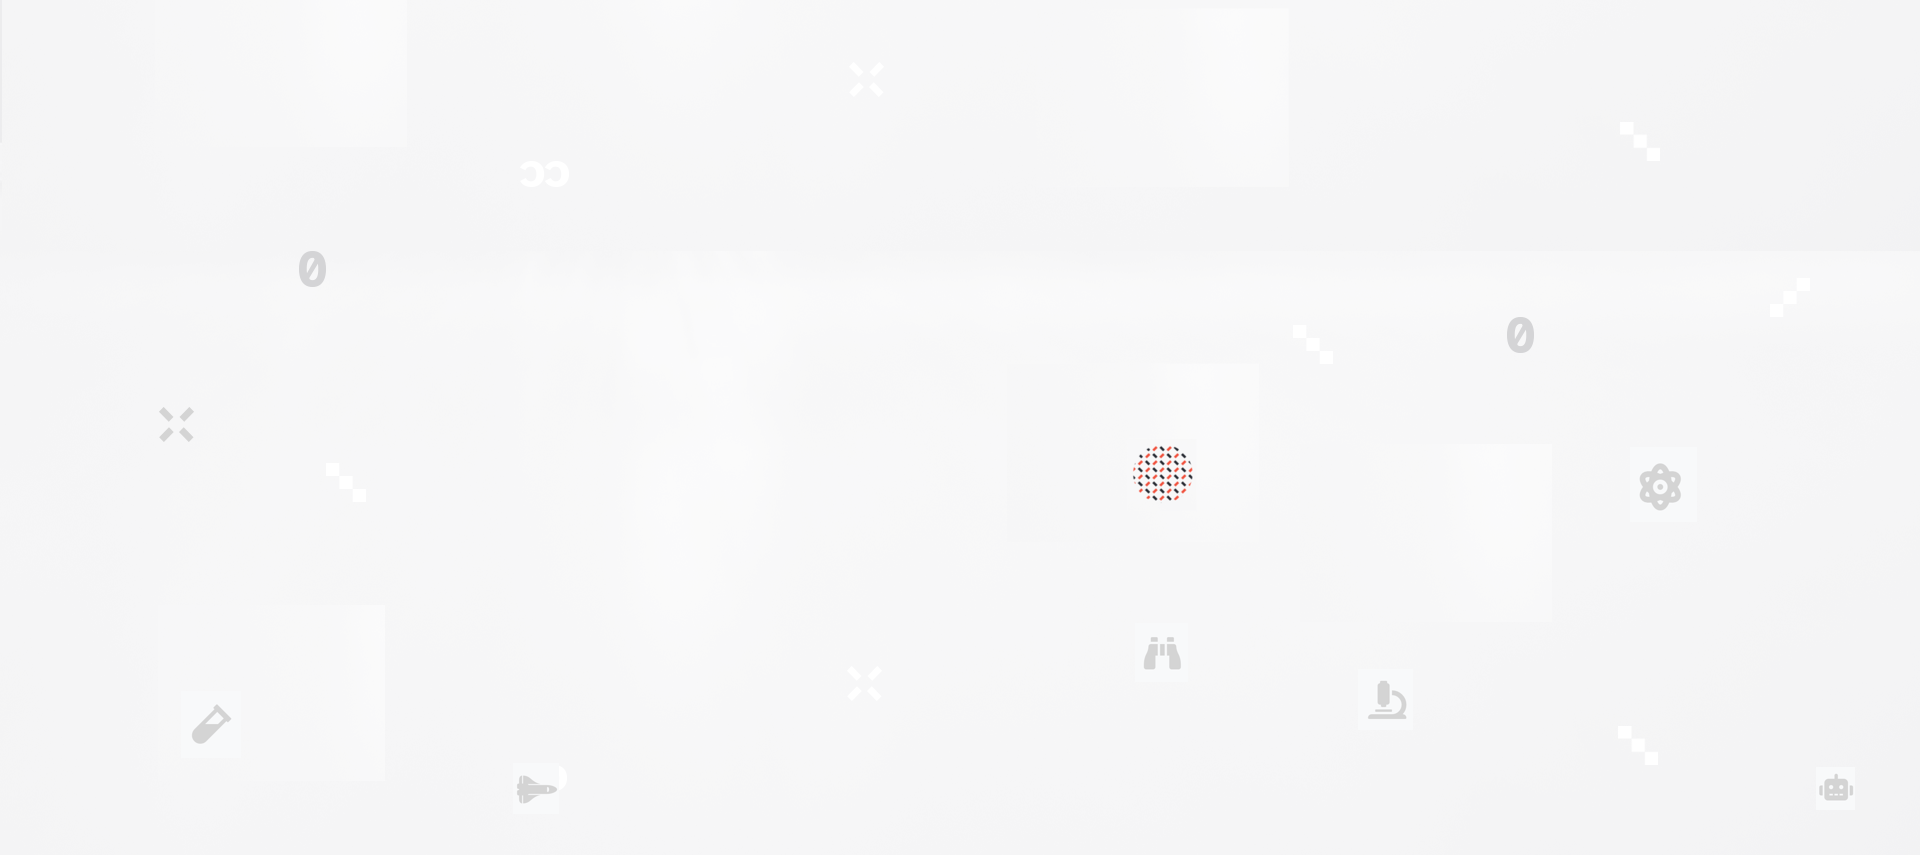
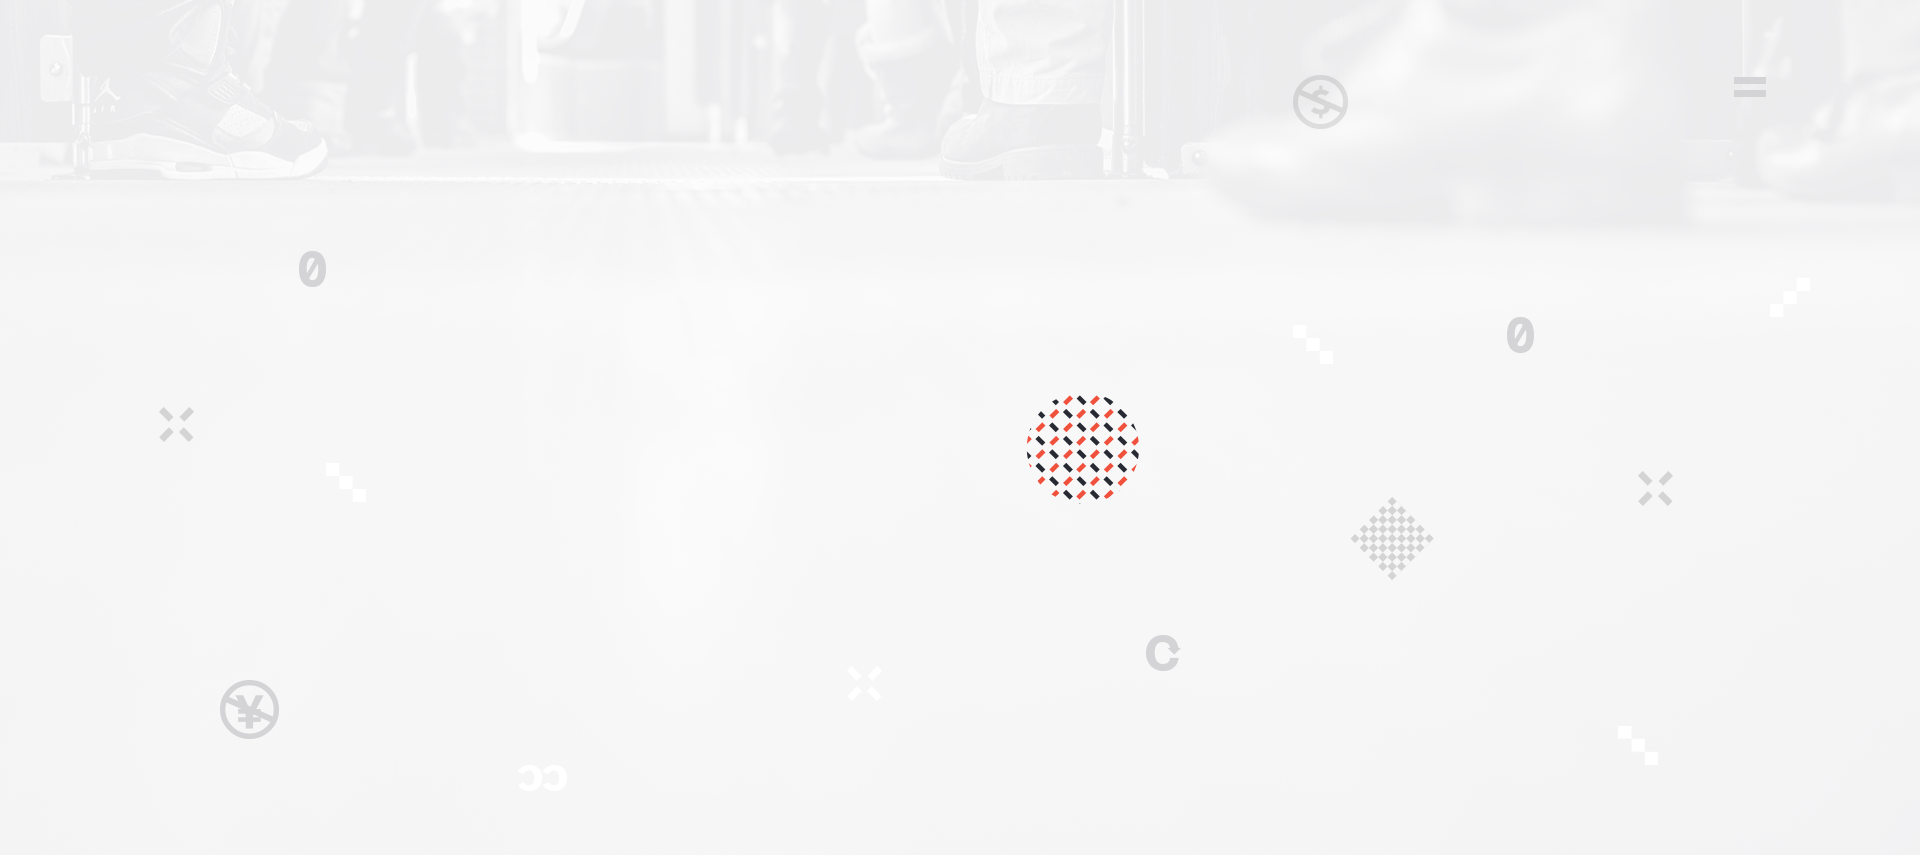
Add dynamic cards

diff --git a/script.js b/script.js
@@ -1,21 +1,79 @@
-const mobileNav = document.querySelector('.mobile-nav');
-const btn = document.querySelector('.btn');
-const link1 = document.querySelector('.link1');
-const link2 = document.querySelector('.link2');
-const link3 = document.querySelector('.link3');
+/* dynamic cards */
+const featuredSpeakersArr = [
+  {
+    id: 1,
+    title: 'Dr. John C. Mather',
+    role: 'Nobel Prize Physics 2016',
+    img: './imgs/speaker1.png',
+    imgAlt: 'Dr. John C. Mather',
+    description:
+      'Lorem ipsum dolor sit amet, consectetur adipiscing elit. Doneceuismod, nisl eget consectetur sagittis.',
+  },
+  {
+    id: 2,
+    title: 'David Hertz',
+    role: 'President, SkySource',
+    img: './imgs/speaker2.png',
+    imgAlt: 'David Hertz',
+    description:
+      'Lorem ipsum dolor sit amet, consectetur adipiscing elit. Doneceuismod, nisl eget consectetur sagittis.',
+  },
+  {
+    id: 3,
+    title: 'Dr. Kat Bruce',
+    role: 'Founder, NatureMetrics',
+    img: './imgs/speaker3.png',
+    imgAlt: 'Dr. Kat Bruce',
+    description:
+      'Lorem ipsum dolor sit amet, consectetur adipiscing elit. Doneceuismod, nisl eget consectetur sagittis.',
+  },
+  {
+    id: 4,
+    title: 'Cristina Mata Yandiola',
+    role: 'Head of Powerledger',
+    img: './imgs/speaker4.png',
+    imgAlt: 'Cristina Mata Yandiola',
+    description:
+      'Lorem ipsum dolor sit amet, consectetur adipiscing elit. Doneceuismod, nisl eget consectetur sagittis.',
+  },
+  {
+    id: 5,
+    title: 'Jeremy Brien',
+    role: 'CEO, PsiQuantum',
+    img: './imgs/speaker5.png',
+    imgAlt: 'Jeremy Brien',
+    description:
+      'Lorem ipsum dolor sit amet, consectetur adipiscing elit. Doneceuismod, nisl eget consectetur sagittis.',
+  },
+  {
+    id: 6,
+    title: 'Kathleen Breitman',
+    role: 'Co-Founder, Tezos',
+    img: './imgs/speaker6.png',
+    imgAlt: 'Kathleen Breitman',
+    description:
+      'Lorem ipsum dolor sit amet, consectetur adipiscing elit. Doneceuismod, nisl eget consectetur sagittis.',
+  },
+];
 
-link1.addEventListener('click', () => {
-  mobileNav.classList.remove('active');
-});
+const featuredSpeakers = document.querySelector('.featured-content');
 
-link2.addEventListener('click', () => {
-  mobileNav.classList.remove('active');
-});
+for (let i = 0; i < featuredSpeakersArr.length; i += 1) {
+  const speaker = featuredSpeakersArr[i];
 
-link3.addEventListener('click', () => {
-  mobileNav.classList.remove('active');
-});
-
-btn.addEventListener('click', () => {
-  mobileNav.classList.toggle('active');
-});
+  const feature = document.createElement('div');
+  feature.classList.add('featured-speaker');
+  feature.innerHTML = `<div class="featured-speaker__item">
+  <img class="featured-speaker__img" src="${speaker.img}" alt="${speaker.imgAlt}/>
+  <div class="featured-speaker__info">
+    <h4 class="fs-title">${speaker.title}</h4>
+    <span class="fs-role">Nobel Prize Physics 2016</span>
+    <p class="fs-description">
+      Lorem ipsum dolor sit amet, consectetur adipiscing elit. Donec
+      euismod, nisl eget consectetur sagittis.
+    </p>
+  </div>
+</div>
+  `;
+  featuredSpeakers.appendChild(feature);
+}

diff --git a/style.css b/style.css
@@ -12,12 +12,17 @@
   --color-1: #272a31;
   --color-2: #ec5242;
   --color-3: #d3d3d3;
+  --color-4: #575757;
   --white: #fff;
   --black: #000;
 }
 
 /* mobile styles */
 .secondary-nav {
+  display: none;
+}
+
+.primary-nav__btn {
   display: none;
 }
 
@@ -43,7 +48,6 @@ header {
   display: flex;
   justify-content: space-between;
   padding: 5%;
-  box-shadow: 0 4px 4px -4px rgba(0, 0, 0, 30%);
 }
 
 .primary-nav__items {
@@ -91,13 +95,19 @@ header {
 .date {
   font-family: "COCOGOOSE", sans-serif;
   font-size: 1.5rem;
-  color: gray;
+  color: var(--color-4);
   margin-bottom: 0;
 }
 
 .place {
-  color: gray;
+  color: var(--color-4);
   font-size: 1rem;
+}
+
+.line {
+  width: 60px;
+  border-bottom: 1px solid var(--color-2);
+  margin: 0 auto 40px;
 }
 
 .main-program {
@@ -114,12 +124,6 @@ header {
   color: var(--white);
   margin: 0;
   font-size: 15px;
-}
-
-.main-program__line {
-  width: 60px;
-  border-bottom: 1px solid var(--color-2);
-  margin: 0 auto 40px;
 }
 
 .main-program__cards {
@@ -165,6 +169,37 @@ header {
   text-decoration: none;
 }
 
+.featured-content {
+  display: flex;
+  flex-direction: column;
+  align-items: center;
+  padding: 2rem 0.5rem 0 0.5rem;
+}
+
+.featured-speaker {
+  padding-bottom: 1rem;
+}
+
+.featured-speaker__img {
+  float: left;
+  max-height: auto;
+  max-width: 10rem;
+}
+
+.fs-title {
+  font-weight: bold;
+}
+
+.fs-role {
+  color: var(--color-2);
+  font-size: 14px;
+  font-weight: 700;
+  line-height: 1;
+  font-style: italic;
+  position: relative;
+  padding-bottom: 1.2rem;
+}
+
 /* desktop styles */
 @media screen and (min-width: 768px) {
   .logo {
@@ -172,8 +207,8 @@ header {
     max-width: 10rem;
   }
 
-  .icon {
-    color: var(--white);
+  .menu {
+    display: none;
   }
 
   .secondary-nav {
@@ -200,17 +235,51 @@ header {
     flex-direction: row;
     align-items: center;
     justify-content: space-between;
+    height: 5rem;
   }
 
   .primary-nav__items {
     display: flex;
     list-style: none;
     gap: 2rem;
-    margin-right: 10%;
   }
 
   .primary-nav__item a {
     text-decoration: none;
     color: var(--black);
+  }
+
+  .primary-nav__btn {
+    display: flex;
+    border: 5px solid var(--color-2);
+    color: var(--color-2);
+    padding: 10px;
+    margin-right: 20px;
+  }
+
+  .main-section {
+    background-image: url(imgs/background.png);
+    padding: 5% 5% 5% 10%;
+    height: 90vh;
+  }
+
+  .main-section__title {
+    font-size: 5rem;
+  }
+
+  .main-section__quote {
+    font-size: 2rem;
+  }
+
+  .main-section__description {
+    width: 35rem;
+  }
+
+  .description {
+    font-size: 1.1rem;
+  }
+
+  .date {
+    font-size: 2rem;
   }
 }

diff --git a/index.html b/index.html
@@ -70,13 +70,16 @@
             <a href="#">News</a>
           </li>
         </ul>
+        <div>
+          <p class="primary-nav__btn">BIS Campaign</p>
+        </div>
       </nav>
     </header>
     <section class="main-section">
       <h2 class="main-section__quote">
         "The value of an idea lies in the using of it."
       </h2>
-      <h1 class="main-section__title">BERLIN INNOVATION SUMMIT 2022</h1>
+      <h1 class="main-section__title">BERLIN INNOVATION<br />SUMMIT 2022</h1>
       <div class="main-section__description">
         <p class="description">
           A joyful celebration believing in the value of openness and sharing,
@@ -93,9 +96,8 @@
     <section class="main-program">
       <div class="main-program__title">
         <h4>Main Program</h4>
-        <div class="main-program__line"></div>
+        <div class="line"></div>
       </div>
-
       <ul class="main-program__cards">
         <li class="main-program__card">
           <div class="main-program__card-img">
@@ -158,12 +160,18 @@
           </div>
         </li>
       </ul>
-
       <a href="#" class="main-program__join">
         <h4>Join</h4>
       </a>
     </section>
 
+    <section class="featured-content">
+      <h3 class="featured-content__title">Featured Speakers</h3>
+      <div class="line"></div>
+      <div class="featured-speakers"></div>
+    </section>
+
+    <script src="script.js"></script>
     <script
       src="https://cdn.jsdelivr.net/npm/bootstrap@5.2.0/dist/js/bootstrap.bundle.min.js"
       integrity="sha384-A3rJD856KowSb7dwlZdYEkO39Gagi7vIsF0jrRAoQmDKKtQBHUuLZ9AsSv4jD4Xa"
